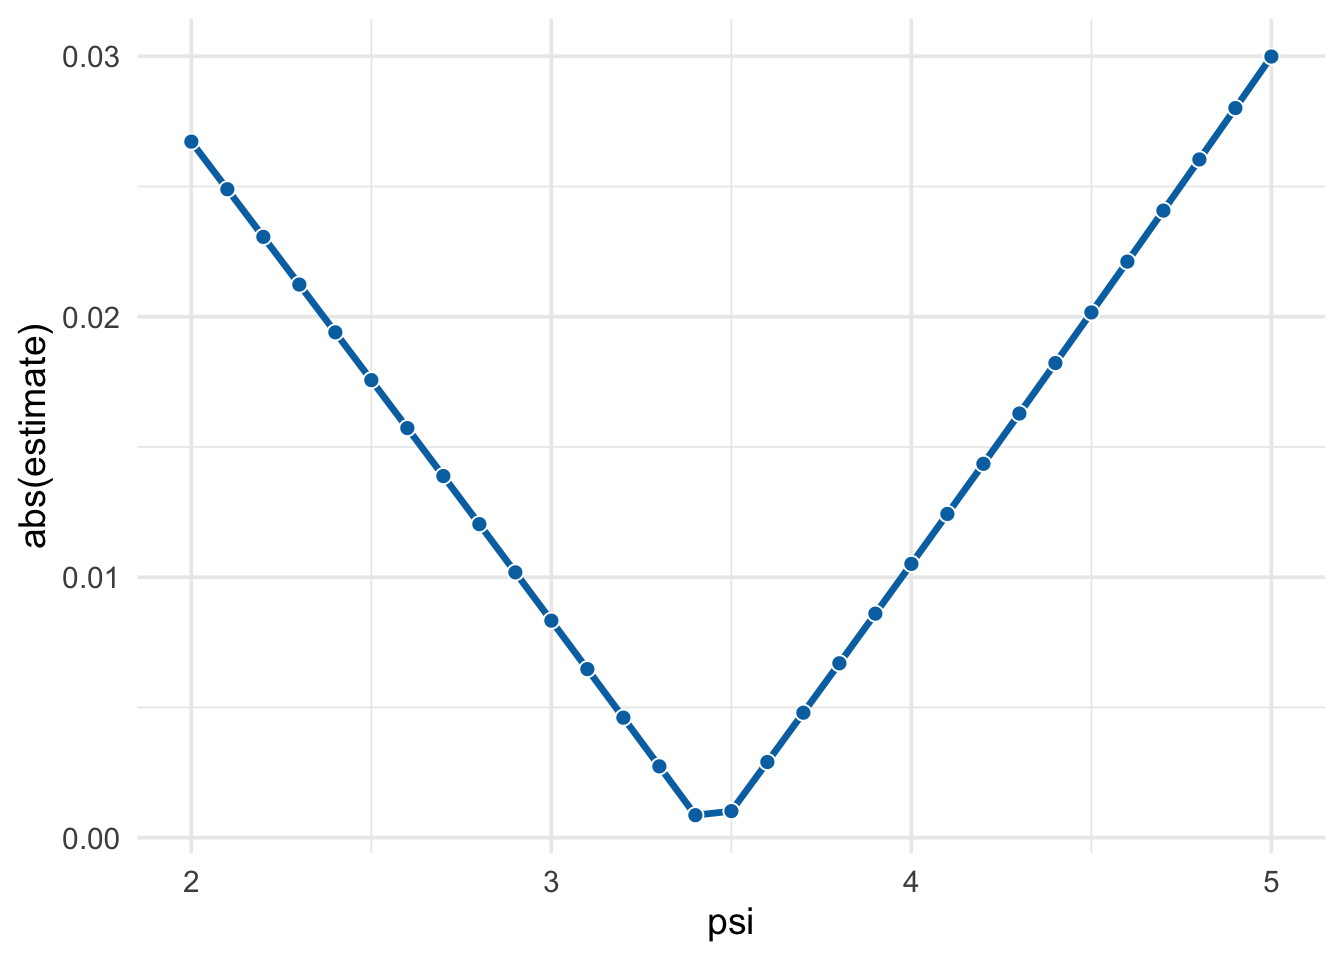
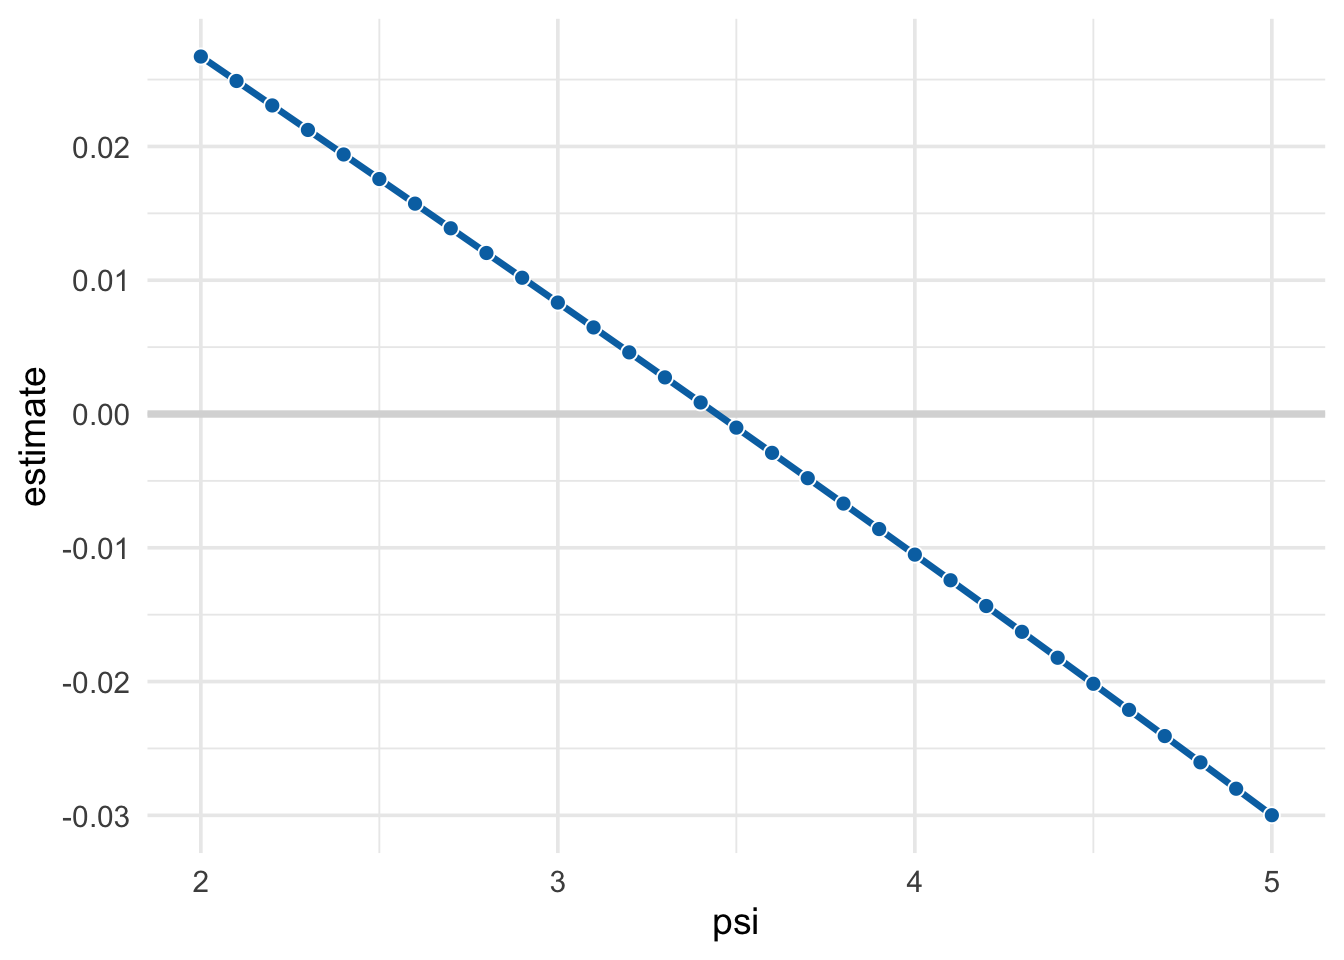
deabsolute psi plot

diff --git a/_book/chapter-14.html b/_book/chapter-14.html
@@ -315,10 +315,11 @@ code span.wa { color: #60a0b0; font-weight: bold; font-style: italic; } /* Warni
 ##   &lt;dbl&gt;     &lt;dbl&gt;    &lt;dbl&gt;
 ## 1   3.4       4.4      2.6</code></pre>
 <div class="sourceCode" id="cb69"><pre class="sourceCode r"><code class="sourceCode r"><a class="sourceLine" id="cb69-1" data-line-number="1">psi_search <span class="op">%&gt;%</span><span class="st"> </span></a>
-<a class="sourceLine" id="cb69-2" data-line-number="2"><span class="st">  </span><span class="kw">ggplot</span>(<span class="kw">aes</span>(<span class="dt">x =</span> psi, <span class="dt">y =</span> <span class="kw">abs</span>(estimate))) <span class="op">+</span><span class="st"> </span></a>
-<a class="sourceLine" id="cb69-3" data-line-number="3"><span class="st">    </span><span class="kw">geom_line</span>(<span class="dt">col =</span> <span class="st">&quot;#0072B2&quot;</span>, <span class="dt">size =</span> <span class="fl">1.2</span>) <span class="op">+</span><span class="st"> </span></a>
-<a class="sourceLine" id="cb69-4" data-line-number="4"><span class="st">    </span><span class="kw">geom_point</span>(<span class="dt">shape =</span> <span class="dv">21</span>, <span class="dt">col =</span> <span class="st">&quot;white&quot;</span>, <span class="dt">fill =</span> <span class="st">&quot;#0072B2&quot;</span>, <span class="dt">size =</span> <span class="fl">2.5</span>) <span class="op">+</span><span class="st"> </span></a>
-<a class="sourceLine" id="cb69-5" data-line-number="5"><span class="st">    </span><span class="kw">theme_minimal</span>(<span class="dv">14</span>)</a></code></pre></div>
+<a class="sourceLine" id="cb69-2" data-line-number="2"><span class="st">  </span><span class="kw">ggplot</span>(<span class="kw">aes</span>(<span class="dt">x =</span> psi, <span class="dt">y =</span> estimate)) <span class="op">+</span><span class="st">       </span></a>
+<a class="sourceLine" id="cb69-3" data-line-number="3"><span class="st">    </span><span class="kw">geom_hline</span>(<span class="dt">yintercept =</span> <span class="dv">0</span>, <span class="dt">col =</span> <span class="st">&quot;grey85&quot;</span>, <span class="dt">size =</span> <span class="fl">1.3</span>) <span class="op">+</span></a>
+<a class="sourceLine" id="cb69-4" data-line-number="4"><span class="st">    </span><span class="kw">geom_line</span>(<span class="dt">col =</span> <span class="st">&quot;#0072B2&quot;</span>, <span class="dt">size =</span> <span class="fl">1.2</span>) <span class="op">+</span><span class="st"> </span></a>
+<a class="sourceLine" id="cb69-5" data-line-number="5"><span class="st">    </span><span class="kw">geom_point</span>(<span class="dt">shape =</span> <span class="dv">21</span>, <span class="dt">col =</span> <span class="st">&quot;white&quot;</span>, <span class="dt">fill =</span> <span class="st">&quot;#0072B2&quot;</span>, <span class="dt">size =</span> <span class="fl">2.5</span>) <span class="op">+</span><span class="st"> </span></a>
+<a class="sourceLine" id="cb69-6" data-line-number="6"><span class="st">    </span><span class="kw">theme_minimal</span>(<span class="dv">14</span>)</a></code></pre></div>
 <p><img src="causal_inference_book_files/figure-html/unnamed-chunk-23-1.png" width="672" /></p>
 <div class="sourceCode" id="cb70"><pre class="sourceCode r"><code class="sourceCode r"><a class="sourceLine" id="cb70-1" data-line-number="1">psi_formula &lt;-<span class="st"> </span><span class="cf">function</span>(weights, outcome, treatment, treatment_pred) {</a>
 <a class="sourceLine" id="cb70-2" data-line-number="2">  numerator &lt;-<span class="st"> </span>weights <span class="op">*</span><span class="st"> </span>outcome <span class="op">*</span><span class="st"> </span>(treatment <span class="op">-</span><span class="st"> </span>treatment_pred)</a>
